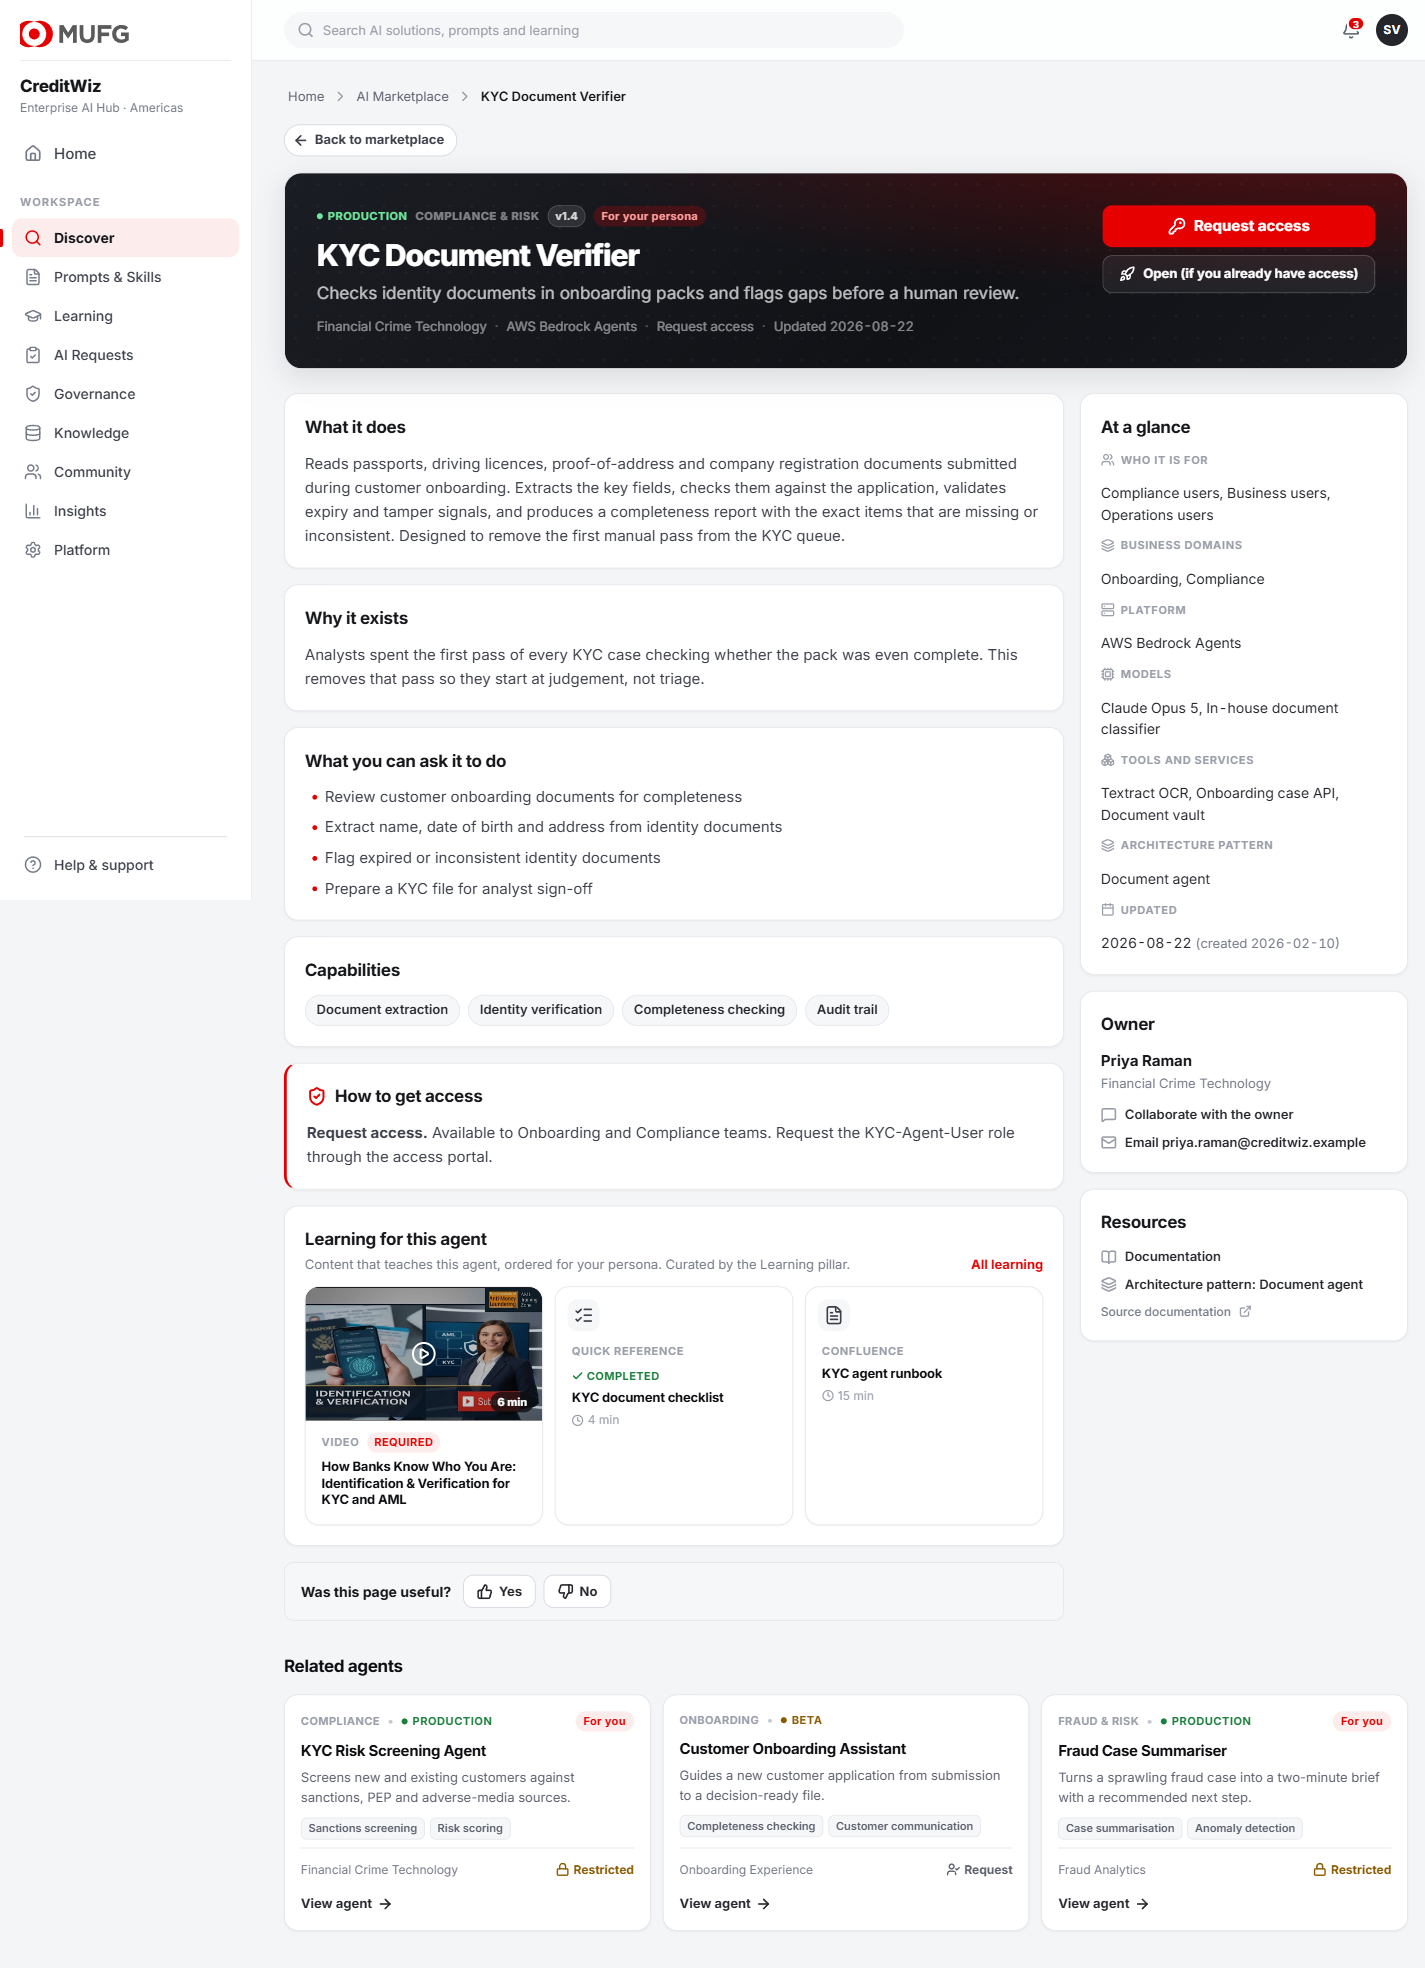
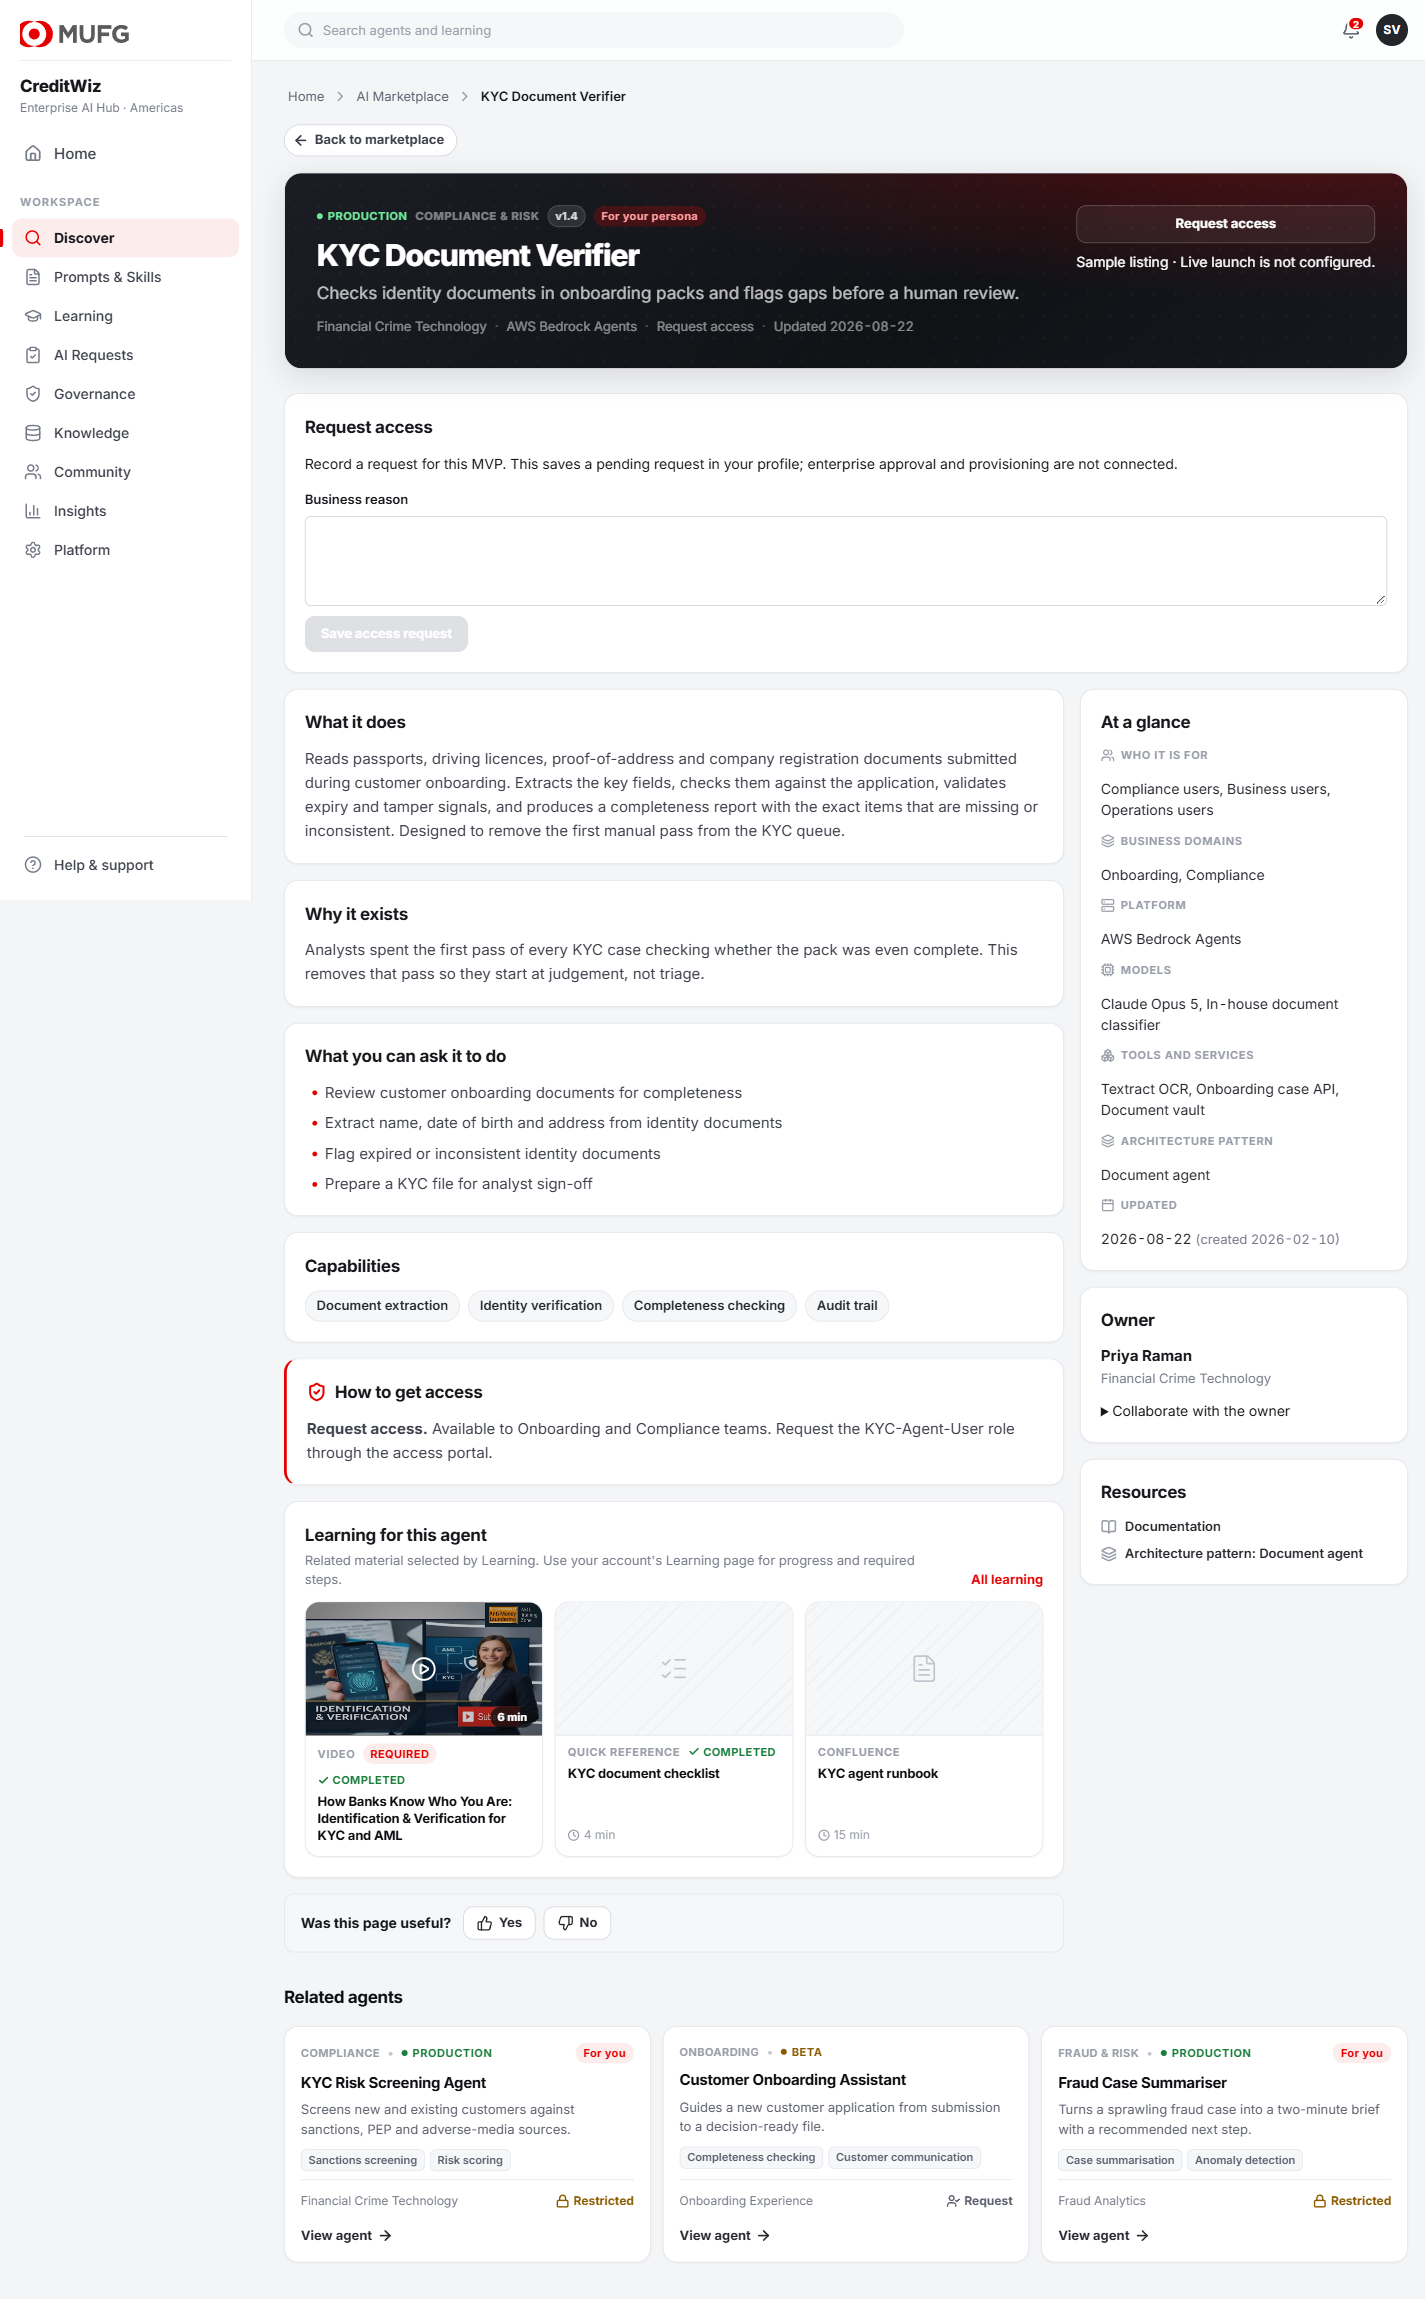
Refresh Learning screenshots for the review; calm best-practice covers
The Learning, My Learning and agent-detail captures still showed the old card
layout, where non-video items had a small icon tile and left a void beside the
video thumbnails. Recaptured at the same 1425px width and as the same signed-in
user as the rest of the set, with lazy thumbnails scrolled into view first.

Also: the best-practice cover used a red-tinted ground, which put four pink
tiles on one Learning page. Only the glyph carries the accent now.

diff --git a/frontend/src/learning.css b/frontend/src/learning.css
@@ -615,11 +615,10 @@
   color: var(--red);
 }
 
+/* Red marks the type, but a tinted ground repeated across a section turned the
+   page pink, so only the glyph carries the accent. */
 .icard--best-practice .icard__cover {
   color: var(--red);
-  background:
-    repeating-linear-gradient(135deg, transparent 0 9px, rgba(230, 0, 0, 0.05) 9px 10px),
-    var(--red-tint);
 }
 
 .icard__body {
